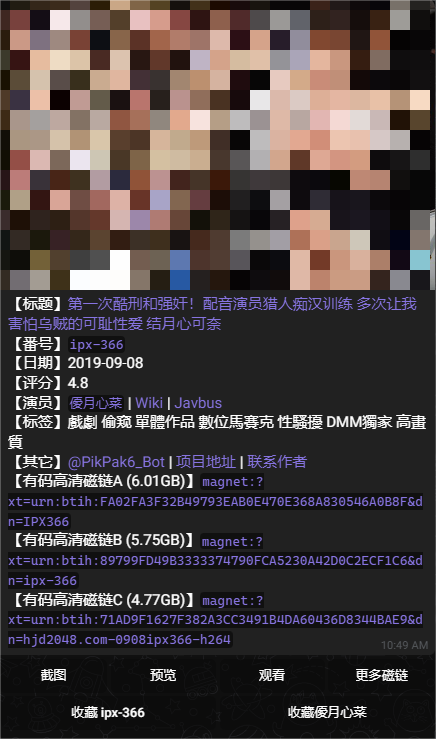
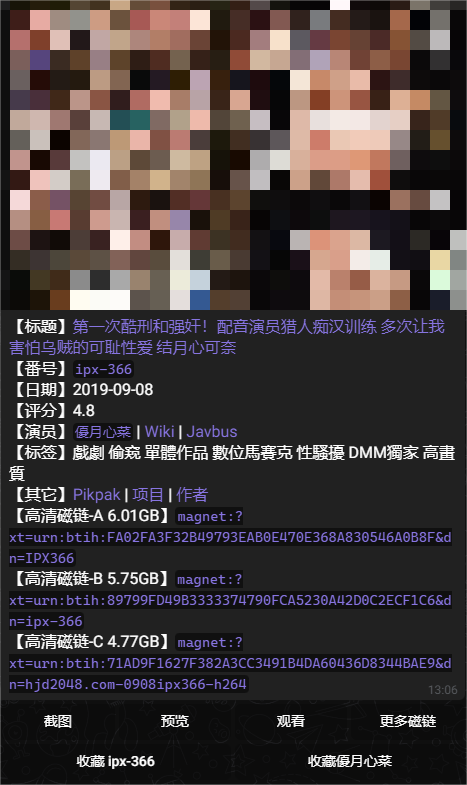
优化显示

diff --git a/bot.py b/bot.py
@@ -465,11 +465,7 @@ def get_av_by_id(id: str,
                 if wiki_json and wiki_json['lang'] == 'zh':
                     name_zh = wiki_json['title']
                     wiki_zh = wiki_json['url']
-                    if name_zh != name:
-                        msg += f'''【演员】<code>{name}</code> / <code>{name_zh}</code> | <a href="{wiki_zh}">Wiki</a> | <a href="{link}">Javbus</a>
-'''
-                    else:
-                        msg += f'''【演员】<code>{name}</code> | <a href="{wiki_zh}">Wiki</a> | <a href="{link}">Javbus</a>
+                    msg += f'''【演员】<code>{name_zh}</code> | <a href="{wiki_zh}">Wiki</a> | <a href="{link}">Javbus</a>
 '''
                 else:
                     msg += f'''【演员】<code>{name}</code> | <a href="{wiki}">Wiki</a> | <a href="{link}">Javbus</a>
@@ -495,7 +491,7 @@ def get_av_by_id(id: str,
             magnet_tags += '高清'
         if magnet['zm'] == '1':
             magnet_tags += '含字幕'
-        msg_tmp = f'''【{magnet_tags}磁链-{string.ascii_letters[i].upper()} ({magnet["size"]})】<code>{magnet["link"]}</code>
+        msg_tmp = f'''【{magnet_tags}磁链-{string.ascii_letters[i].upper()} {magnet["size"]}】<code>{magnet["link"]}</code>
 '''
         if len(msg + msg_tmp) >= 2000:
             break
@@ -755,7 +751,7 @@ def get_more_magnets(id: str):
             magnet_tags += '高清'
         if magnet['zm'] == '1':
             magnet_tags += '含字幕'
-        msg_tmp = f'''【{magnet_tags}磁链 ({magnet["size"]})】<code>{magnet["link"]}</code>
+        msg_tmp = f'''【{magnet_tags}磁链 {magnet["size"]}】<code>{magnet["link"]}</code>
 '''
         if len(msg + msg_tmp) >= 4000:
             send_msg(msg)
